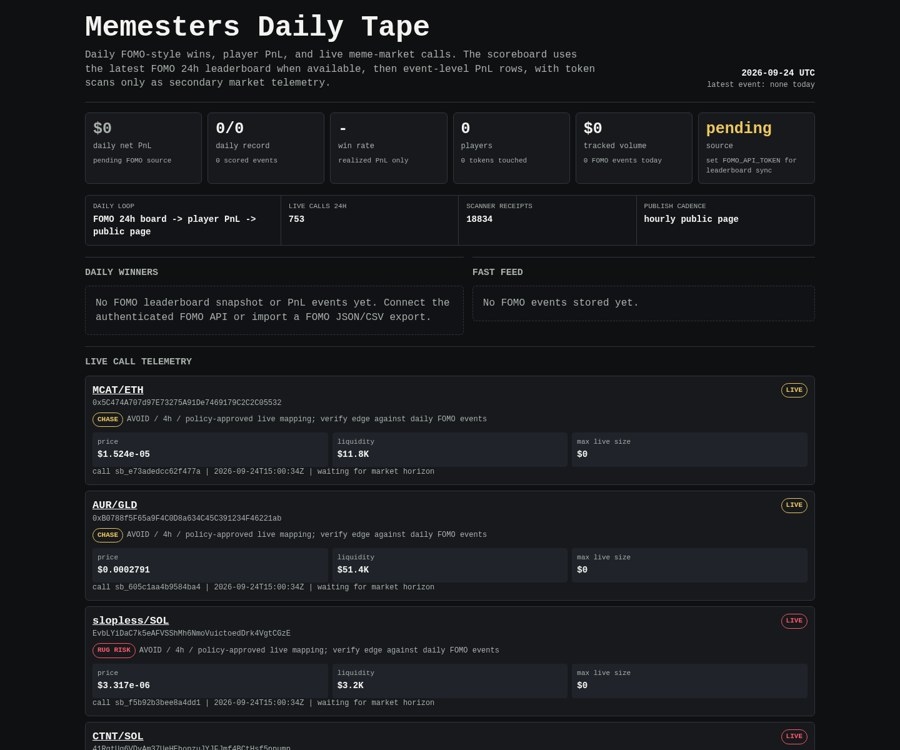
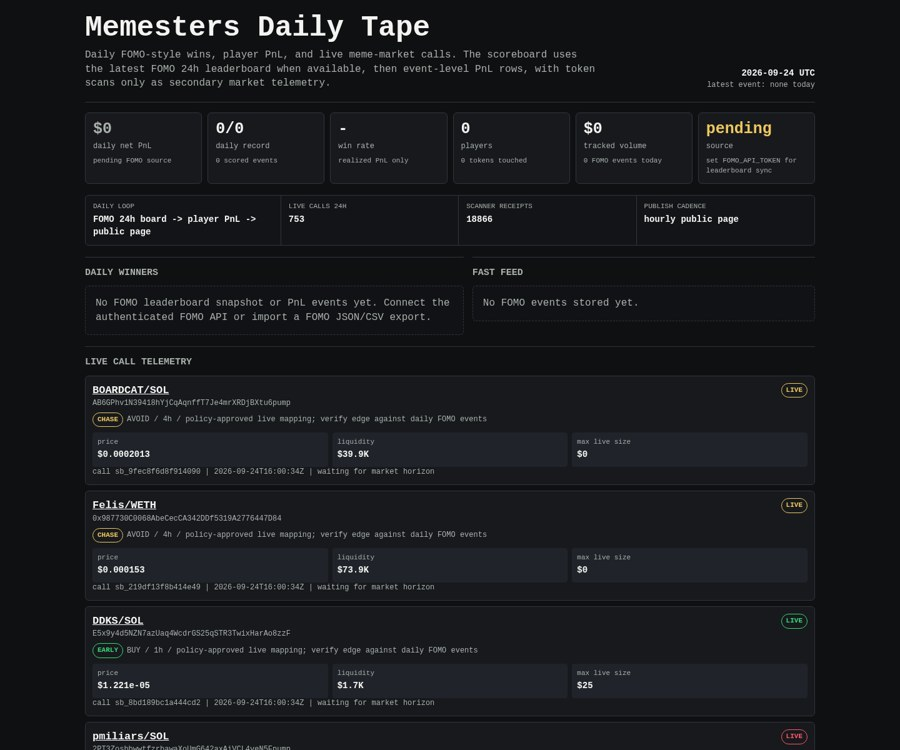
Update Memesters scoreboard

diff --git a/memesters/index.html b/memesters/index.html
@@ -150,7 +150,7 @@
     <div class="rail" aria-label="live operating loop">
       <div><span>daily loop</span><b>FOMO 24h board -> player PnL -> public page</b></div>
       <div><span>live calls 24h</span><b>753</b></div>
-      <div><span>scanner receipts</span><b>18834</b></div>
+      <div><span>scanner receipts</span><b>18866</b></div>
       <div><span>publish cadence</span><b>hourly public page</b></div>
     </div>
 
@@ -171,8 +171,8 @@
     <article class="receipt">
       <div class="receipt-head">
         <div>
-          <div class="pair"><a href="https://dexscreener.com/robinhood/0xa31e19c6f653efb9fab604ba054565ab922730b14b24b7e1c56e7860eed2147b">MCAT/ETH</a></div>
-          <div class="addr">0x5C474A707d97E73275A91De7469179C2C2C05532</div>
+          <div class="pair"><a href="https://dexscreener.com/solana/3tzfdyqxukxhyqbchhtr74srpgsnxa22b6btv9j4fpet">BOARDCAT/SOL</a></div>
+          <div class="addr">AB6GPhv1N39418hYjCqAqnffT7Je4mrXRDjBXtu6pump</div>
           <div class="addr policy-line">
             <span class="badge chase">CHASE</span>
             <span>AVOID / 4h / policy-approved live mapping; verify edge against daily FOMO events</span>
@@ -181,19 +181,19 @@
         <span class="badge chase">LIVE</span>
       </div>
       <div class="receipt-grid">
-        <div class="kv"><span>price</span><b>$1.524e-05</b></div>
-        <div class="kv"><span>liquidity</span><b>$11.8K</b></div>
+        <div class="kv"><span>price</span><b>$0.0002013</b></div>
+        <div class="kv"><span>liquidity</span><b>$39.9K</b></div>
         <div class="kv"><span>max live size</span><b>$0</b></div>
       </div>
-      <div class="outcomes">call sb_e73adedcc62f477a | 2026-09-24T15:00:34Z | waiting for market horizon</div>
+      <div class="outcomes">call sb_9fec8f6d8f914090 | 2026-09-24T16:00:34Z | waiting for market horizon</div>
     </article>
     
 
     <article class="receipt">
       <div class="receipt-head">
         <div>
-          <div class="pair"><a href="https://dexscreener.com/robinhood/0x3e7c143c95facb1fb378dbbaf960020389079ab3bdcc06eb953325f847482ff6">AUR/GLD</a></div>
-          <div class="addr">0xB0788f5F65a9F4C0D8a634C45C391234F46221ab</div>
+          <div class="pair"><a href="https://dexscreener.com/robinhood/0x7e3fac8e8e64146b929fe04009327dd197acb526">Felis/WETH</a></div>
+          <div class="addr">0x987730C0068AbeCecCA342DDf5319A2776447D84</div>
           <div class="addr policy-line">
             <span class="badge chase">CHASE</span>
             <span>AVOID / 4h / policy-approved live mapping; verify edge against daily FOMO events</span>
@@ -202,19 +202,40 @@
         <span class="badge chase">LIVE</span>
       </div>
       <div class="receipt-grid">
-        <div class="kv"><span>price</span><b>$0.0002791</b></div>
-        <div class="kv"><span>liquidity</span><b>$51.4K</b></div>
+        <div class="kv"><span>price</span><b>$0.000153</b></div>
+        <div class="kv"><span>liquidity</span><b>$73.9K</b></div>
         <div class="kv"><span>max live size</span><b>$0</b></div>
       </div>
-      <div class="outcomes">call sb_605c1aa4b9584ba4 | 2026-09-24T15:00:34Z | waiting for market horizon</div>
+      <div class="outcomes">call sb_219df13f8b414e49 | 2026-09-24T16:00:34Z | waiting for market horizon</div>
     </article>
     
 
     <article class="receipt">
       <div class="receipt-head">
         <div>
-          <div class="pair"><a href="https://dexscreener.com/solana/cbbfryegdwsumggazp8tjeynu5v26ghnc8wsu5ofquq7">slopless/SOL</a></div>
-          <div class="addr">EvbLYiDaC7k5eAFVSShMh6NmoVuictoedDrk4VgtCGzE</div>
+          <div class="pair"><a href="https://dexscreener.com/solana/743bjzsrwmirwrjc3x3yrkcef16sp1hk9q2gzje9js7r">DDKS/SOL</a></div>
+          <div class="addr">E5x9y4d5NZN7azUaq4WcdrGS25qSTR3TwixHarAo8zzF</div>
+          <div class="addr policy-line">
+            <span class="badge early">EARLY</span>
+            <span>BUY / 1h / policy-approved live mapping; verify edge against daily FOMO events</span>
+          </div>
+        </div>
+        <span class="badge early">LIVE</span>
+      </div>
+      <div class="receipt-grid">
+        <div class="kv"><span>price</span><b>$1.221e-05</b></div>
+        <div class="kv"><span>liquidity</span><b>$1.7K</b></div>
+        <div class="kv"><span>max live size</span><b>$25</b></div>
+      </div>
+      <div class="outcomes">call sb_8bd189bc1a444cd2 | 2026-09-24T16:00:34Z | waiting for market horizon</div>
+    </article>
+    
+
+    <article class="receipt">
+      <div class="receipt-head">
+        <div>
+          <div class="pair"><a href="https://dexscreener.com/solana/d8upwcurujwtm3tv6e9saxfhukfvrivmjgurhp7lv2bb">pmiliars/SOL</a></div>
+          <div class="addr">2PT3ZosbbwwtfzrbawaXoUmG642axAiVCL4yeN5Fpump</div>
           <div class="addr policy-line">
             <span class="badge rug-risk">RUG RISK</span>
             <span>AVOID / 4h / policy-approved live mapping; verify edge against daily FOMO events</span>
@@ -223,19 +244,82 @@
         <span class="badge rug-risk">LIVE</span>
       </div>
       <div class="receipt-grid">
-        <div class="kv"><span>price</span><b>$3.317e-06</b></div>
-        <div class="kv"><span>liquidity</span><b>$3.2K</b></div>
+        <div class="kv"><span>price</span><b>$2.437e-06</b></div>
+        <div class="kv"><span>liquidity</span><b>$2.5K</b></div>
         <div class="kv"><span>max live size</span><b>$0</b></div>
       </div>
-      <div class="outcomes">call sb_f5b92b3bee8a4dd1 | 2026-09-24T15:00:34Z | waiting for market horizon</div>
+      <div class="outcomes">call sb_181858f04c5545d3 | 2026-09-24T16:00:34Z | waiting for market horizon</div>
     </article>
     
 
     <article class="receipt">
       <div class="receipt-head">
         <div>
-          <div class="pair"><a href="https://dexscreener.com/solana/exddpxuguujjysw59ynwkeuqbjodikffsc9t3jcexqwr">CTNT/SOL</a></div>
-          <div class="addr">41RgtUg6VDvAm37UeHEhopzuJYJFJmf4BCtHsf5ppump</div>
+          <div class="pair"><a href="https://dexscreener.com/solana/cahhjsddfwv5knojg51amcszqg2v9hefwjmj5r6m11yu">STRAY/GP</a></div>
+          <div class="addr">9GgNC3RY89AD6GA2b2CPgNGtp7vP8ejyLEjqWB6VL6Qh</div>
+          <div class="addr policy-line">
+            <span class="badge early">EARLY</span>
+            <span>BUY / 1h / policy-approved live mapping; verify edge against daily FOMO events</span>
+          </div>
+        </div>
+        <span class="badge early">LIVE</span>
+      </div>
+      <div class="receipt-grid">
+        <div class="kv"><span>price</span><b>$6.2e-05</b></div>
+        <div class="kv"><span>liquidity</span><b>$21.0K</b></div>
+        <div class="kv"><span>max live size</span><b>$89</b></div>
+      </div>
+      <div class="outcomes">call sb_0bdbb6574fb94eaa | 2026-09-24T16:00:34Z | waiting for market horizon</div>
+    </article>
+    
+
+    <article class="receipt">
+      <div class="receipt-head">
+        <div>
+          <div class="pair"><a href="https://dexscreener.com/solana/3kiaoztzvb6nbqrvupqwsa5xu4cu2ftma7shtsofkvy9">Museify/METAx</a></div>
+          <div class="addr">A4nT9WTd3jJkDhCKJU7E4TF75dFohE81mMYDEP38YfoF</div>
+          <div class="addr policy-line">
+            <span class="badge early">EARLY</span>
+            <span>BUY / 1h / policy-approved live mapping; verify edge against daily FOMO events</span>
+          </div>
+        </div>
+        <span class="badge early">LIVE</span>
+      </div>
+      <div class="receipt-grid">
+        <div class="kv"><span>price</span><b>$0.0001289</b></div>
+        <div class="kv"><span>liquidity</span><b>$34.0K</b></div>
+        <div class="kv"><span>max live size</span><b>$408</b></div>
+      </div>
+      <div class="outcomes">call sb_672b21ac38d64881 | 2026-09-24T16:00:34Z | waiting for market horizon</div>
+    </article>
+    
+
+    <article class="receipt">
+      <div class="receipt-head">
+        <div>
+          <div class="pair"><a href="https://dexscreener.com/solana/3ap1faxakbzhzyvbg4u5mnwwhvxtxgrj5z713geglb3t">WEED/GP</a></div>
+          <div class="addr">3SCi94ePA14dVj8XvM3jAFWPmCWs3p9zEsXRgdELPXfY</div>
+          <div class="addr policy-line">
+            <span class="badge chase">CHASE</span>
+            <span>AVOID / 4h / policy-approved live mapping; verify edge against daily FOMO events</span>
+          </div>
+        </div>
+        <span class="badge chase">LIVE</span>
+      </div>
+      <div class="receipt-grid">
+        <div class="kv"><span>price</span><b>$4.46e-05</b></div>
+        <div class="kv"><span>liquidity</span><b>$21.6K</b></div>
+        <div class="kv"><span>max live size</span><b>$0</b></div>
+      </div>
+      <div class="outcomes">call sb_163d9ad203f743ab | 2026-09-24T16:00:33Z | waiting for market horizon</div>
+    </article>
+    
+
+    <article class="receipt">
+      <div class="receipt-head">
+        <div>
+          <div class="pair"><a href="https://dexscreener.com/solana/dpnk4ogms6sjtjcdfmy5qunim741hqzoekmyzauzegsp">YCAT/ONe</a></div>
+          <div class="addr">A8nBnsmsAu545yQEEh9CmStmNXa51xA7Zwmu4urmXokN</div>
           <div class="addr policy-line">
             <span class="badge rug-risk">RUG RISK</span>
             <span>AVOID / 4h / policy-approved live mapping; verify edge against daily FOMO events</span>
@@ -244,82 +328,40 @@
         <span class="badge rug-risk">LIVE</span>
       </div>
       <div class="receipt-grid">
-        <div class="kv"><span>price</span><b>$4.572e-05</b></div>
-        <div class="kv"><span>liquidity</span><b>$18.4K</b></div>
+        <div class="kv"><span>price</span><b>$2.446e-05</b></div>
+        <div class="kv"><span>liquidity</span><b>$14.6K</b></div>
         <div class="kv"><span>max live size</span><b>$0</b></div>
       </div>
-      <div class="outcomes">call sb_f224add623d14145 | 2026-09-24T15:00:34Z | waiting for market horizon</div>
+      <div class="outcomes">call sb_c8c1bed4757d42fb | 2026-09-24T16:00:33Z | waiting for market horizon</div>
     </article>
     
 
     <article class="receipt">
       <div class="receipt-head">
         <div>
-          <div class="pair"><a href="https://dexscreener.com/solana/7nxlug8nvyzrzbjlz1bgkhodmvyks4qwvg1t9ue19rhk">NP/GLDx</a></div>
-          <div class="addr">H61eoVSK7XmGmAA3NTt5d3Rg4WDxvqMfqpWSeZSJk1aG</div>
+          <div class="pair"><a href="https://dexscreener.com/solana/dj4kd5dd51y6qvfckrwruvxalmcg3mforpy6wjgn581f">HTTPS/ZAMA</a></div>
+          <div class="addr">7vj29b4sM8EGX9VDuY95NjgskWC8FML2zu5np2bR9xB6</div>
           <div class="addr policy-line">
-            <span class="badge rug-risk">RUG RISK</span>
-            <span>AVOID / 4h / policy-approved live mapping; verify edge against daily FOMO events</span>
+            <span class="badge early">EARLY</span>
+            <span>BUY / 1h / policy-approved live mapping; verify edge against daily FOMO events</span>
           </div>
         </div>
-        <span class="badge rug-risk">LIVE</span>
+        <span class="badge early">LIVE</span>
       </div>
       <div class="receipt-grid">
-        <div class="kv"><span>price</span><b>$5.047e-05</b></div>
-        <div class="kv"><span>liquidity</span><b>$19.1K</b></div>
-        <div class="kv"><span>max live size</span><b>$0</b></div>
+        <div class="kv"><span>price</span><b>$2.411e-05</b></div>
+        <div class="kv"><span>liquidity</span><b>$14.1K</b></div>
+        <div class="kv"><span>max live size</span><b>$169</b></div>
       </div>
-      <div class="outcomes">call sb_ac54f7bcc6ff4222 | 2026-09-24T15:00:33Z | waiting for market horizon</div>
+      <div class="outcomes">call sb_91273c8e6294415e | 2026-09-24T15:45:26Z | waiting for market horizon</div>
     </article>
     
 
     <article class="receipt">
       <div class="receipt-head">
         <div>
-          <div class="pair"><a href="https://dexscreener.com/bsc/0x74d3ec3e2fcd00fd435882c3afa22579454d69b8">SI/WBNB</a></div>
-          <div class="addr">0x16dEa77364B4A9Cc7bfcb9414Ccf37Ae1beBf5F5</div>
-          <div class="addr policy-line">
-            <span class="badge chase">CHASE</span>
-            <span>AVOID / 4h / policy-approved live mapping; verify edge against daily FOMO events</span>
-          </div>
-        </div>
-        <span class="badge chase">LIVE</span>
-      </div>
-      <div class="receipt-grid">
-        <div class="kv"><span>price</span><b>$0.001294</b></div>
-        <div class="kv"><span>liquidity</span><b>$110.1K</b></div>
-        <div class="kv"><span>max live size</span><b>$0</b></div>
-      </div>
-      <div class="outcomes">call sb_0213835c57fd483f | 2026-09-24T15:00:33Z | waiting for market horizon</div>
-    </article>
-    
-
-    <article class="receipt">
-      <div class="receipt-head">
-        <div>
-          <div class="pair"><a href="https://dexscreener.com/solana/ewwy33hqqsgmamh5sefdteizto6oippgzt2enmudsue8">CHUD/HIMS</a></div>
-          <div class="addr">chudAJvqw6f1TcyctTqMGqMwrVncA2RZscj4p5fA3fG</div>
-          <div class="addr policy-line">
-            <span class="badge rug-risk">RUG RISK</span>
-            <span>AVOID / 4h / policy-approved live mapping; verify edge against daily FOMO events</span>
-          </div>
-        </div>
-        <span class="badge rug-risk">LIVE</span>
-      </div>
-      <div class="receipt-grid">
-        <div class="kv"><span>price</span><b>$4.481e-06</b></div>
-        <div class="kv"><span>liquidity</span><b>$6.1K</b></div>
-        <div class="kv"><span>max live size</span><b>$0</b></div>
-      </div>
-      <div class="outcomes">call sb_a40318f8951c413b | 2026-09-24T15:00:33Z | waiting for market horizon</div>
-    </article>
-    
-
-    <article class="receipt">
-      <div class="receipt-head">
-        <div>
-          <div class="pair"><a href="https://dexscreener.com/arc/0x7f03a7ce670c2eb6f49638b2e434ae114eb9c15206308ce93c5ec6a2129b95c8">CATZ/USDC</a></div>
-          <div class="addr">0x36408b924123DcaE158257DDa6Ea6722447DB98f</div>
+          <div class="pair"><a href="https://dexscreener.com/robinhood/0x8e425e2df4c367afcc16bd88f67b8244c48fbbcc58e99da536934f2251834750">MACCA/TTWO</a></div>
+          <div class="addr">0xd56F607C54AAafDEEA55B3CfEDBF8029a0201E18</div>
           <div class="addr policy-line">
             <span class="badge chase">CHASE</span>
             <span>AVOID / 4h / policy-approved live mapping; verify edge against daily FOMO events</span>
@@ -328,53 +370,11 @@
         <span class="badge chase">LIVE</span>
       </div>
       <div class="receipt-grid">
-        <div class="kv"><span>price</span><b>$0.0002052</b></div>
-        <div class="kv"><span>liquidity</span><b>$42.7K</b></div>
+        <div class="kv"><span>price</span><b>$5.206e-05</b></div>
+        <div class="kv"><span>liquidity</span><b>$45.1K</b></div>
         <div class="kv"><span>max live size</span><b>$0</b></div>
       </div>
-      <div class="outcomes">call sb_a0b989cccfc445b5 | 2026-09-24T15:00:33Z | waiting for market horizon</div>
-    </article>
-    
-
-    <article class="receipt">
-      <div class="receipt-head">
-        <div>
-          <div class="pair"><a href="https://dexscreener.com/robinhood/0x1e015c87a0924c1bd508a2f8af2e1772953ad4a92c5f18f8927139abc8aefc5e">CYCLE/ETH</a></div>
-          <div class="addr">0xB203e758D9c4bbcac34c1cE924595274e0D3678f</div>
-          <div class="addr policy-line">
-            <span class="badge chase">CHASE</span>
-            <span>AVOID / 4h / policy-approved live mapping; verify edge against daily FOMO events</span>
-          </div>
-        </div>
-        <span class="badge chase">LIVE</span>
-      </div>
-      <div class="receipt-grid">
-        <div class="kv"><span>price</span><b>$0.002558</b></div>
-        <div class="kv"><span>liquidity</span><b>$151.5K</b></div>
-        <div class="kv"><span>max live size</span><b>$0</b></div>
-      </div>
-      <div class="outcomes">call sb_eab17d8266e34d49 | 2026-09-24T14:45:29Z | waiting for market horizon</div>
-    </article>
-    
-
-    <article class="receipt">
-      <div class="receipt-head">
-        <div>
-          <div class="pair"><a href="https://dexscreener.com/robinhood/0x3e7c143c95facb1fb378dbbaf960020389079ab3bdcc06eb953325f847482ff6">AUR/GLD</a></div>
-          <div class="addr">0xB0788f5F65a9F4C0D8a634C45C391234F46221ab</div>
-          <div class="addr policy-line">
-            <span class="badge chase">CHASE</span>
-            <span>AVOID / 4h / policy-approved live mapping; verify edge against daily FOMO events</span>
-          </div>
-        </div>
-        <span class="badge chase">LIVE</span>
-      </div>
-      <div class="receipt-grid">
-        <div class="kv"><span>price</span><b>$0.0002776</b></div>
-        <div class="kv"><span>liquidity</span><b>$51.2K</b></div>
-        <div class="kv"><span>max live size</span><b>$0</b></div>
-      </div>
-      <div class="outcomes">call sb_cc6e1a52d3db4d0b | 2026-09-24T14:45:29Z | waiting for market horizon</div>
+      <div class="outcomes">call sb_12d32704d5ef44e2 | 2026-09-24T15:45:26Z | waiting for market horizon</div>
     </article>
     
     </section>
